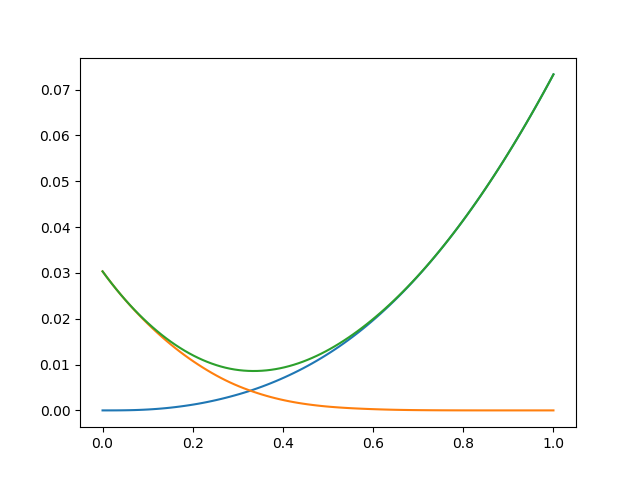
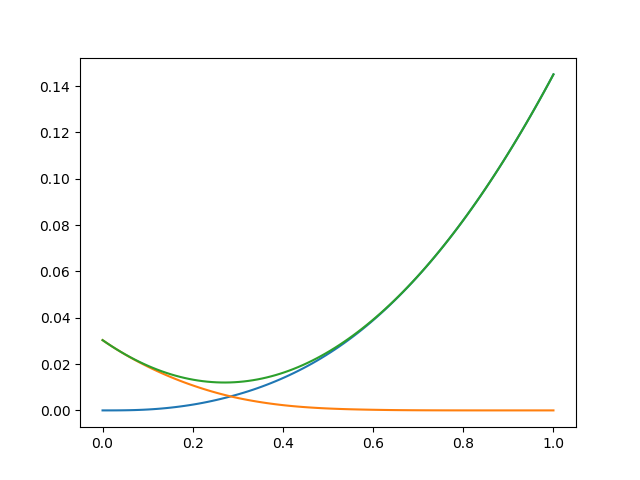
optimale lineaire kwantisator deel 2

diff --git a/Python/kwantisatie.py b/Python/kwantisatie.py
@@ -213,15 +213,26 @@ class Kwantisatie():
         # GKD_min : minimale GKD van de optimale uniforme kwantisator
         GKD_min = min(y_3) # of dit self.sigma(delta_opt, M, f_u)
         # SQR : SQR van de optimale kwantisator
-        # entropie : entropie van het gekwantiseerde signaal
+        mean = integrate.quad(lambda u: u*f_u(u), -np.Inf, np.Inf)[0]
+        SQR = (integrate.quad(lambda u: (u**2) * f_u(u), -np.Inf, np.Inf)[0] - mean**2)/GKD_min
         # r : kwantisatiedrempels ri = x0 + (2i−M)∆/2
         r_functie = lambda i: (2*i-M)*delta_opt/2
-        r_opt = [r_functie(i) for i in range(1, M+1)]
+        r_opt = [-np.Inf]
+        for i in range(1, M+1):
+            r_opt.append(r_functie(i)) 
         # q : kwantisatieniveaus  qi = x0+(i−(M+1)/2)∆
         q_functie = lambda i: (i - ((M+1)/2))*delta_opt
         q_opt = [q_functie(i) for i in range(1, M+1)] 
         # p : relatieve frequentie kwantisatieniveus
-        
+        p_functie = lambda i: integrate.quad(lambda u: f_u(u), r_opt[i-1], r_opt[i])[0]
+        p_opt = [p_functie(i) for i in range(1, M+1)] 
+        p_opt.append(integrate.quad(lambda u: f_u(u), r_opt[len(r_opt)-1], np.Inf)[0])
+
+        # entropie : entropie van het gekwantiseerde signaal
+        entropie = 0.0
+        for i in range(M):
+            entropie += -p_opt[i]*np.log2(p_opt[i])
+
         return (delta_opt,GKD_min,SQR,entropie,r_opt,q_opt,p_opt)
         
         
